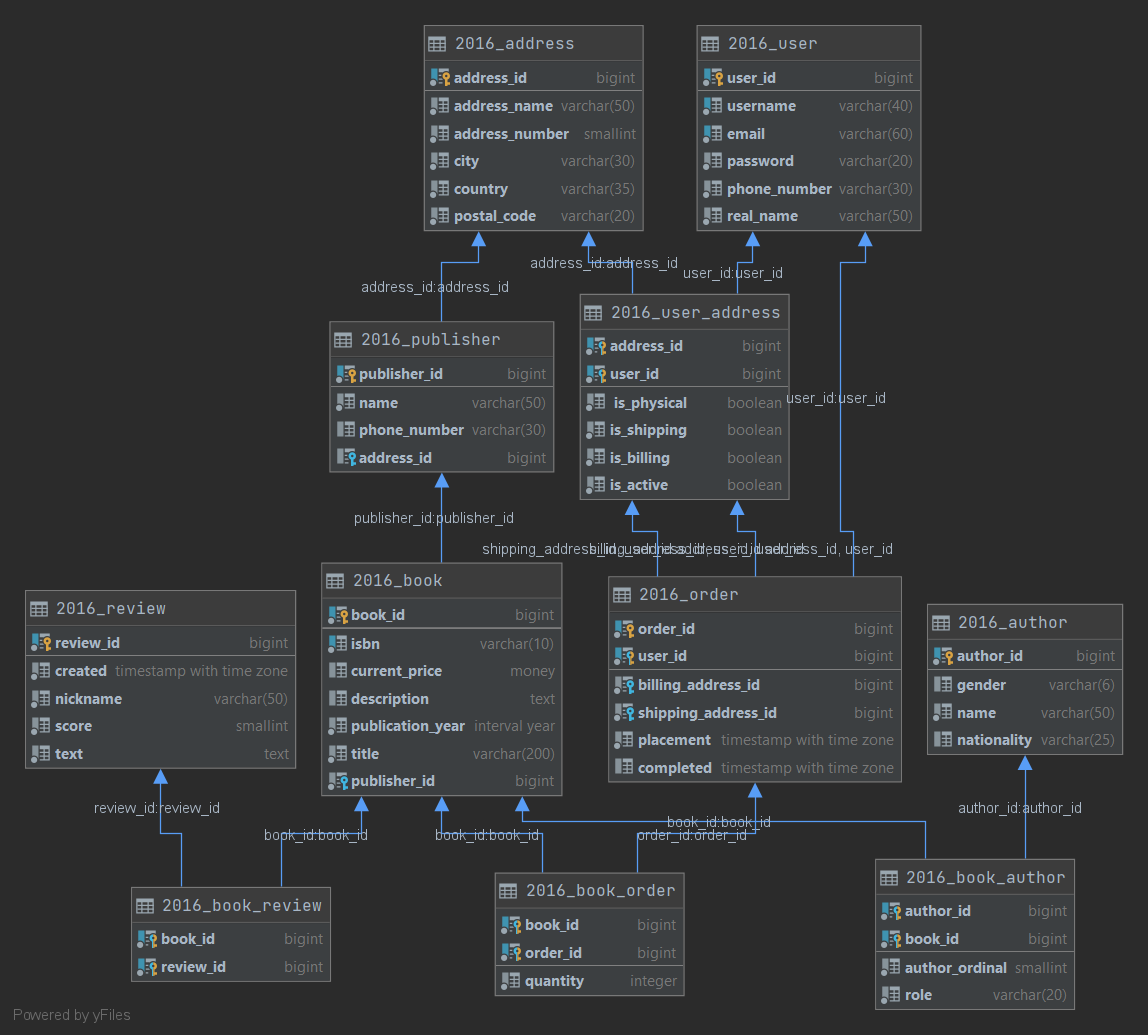
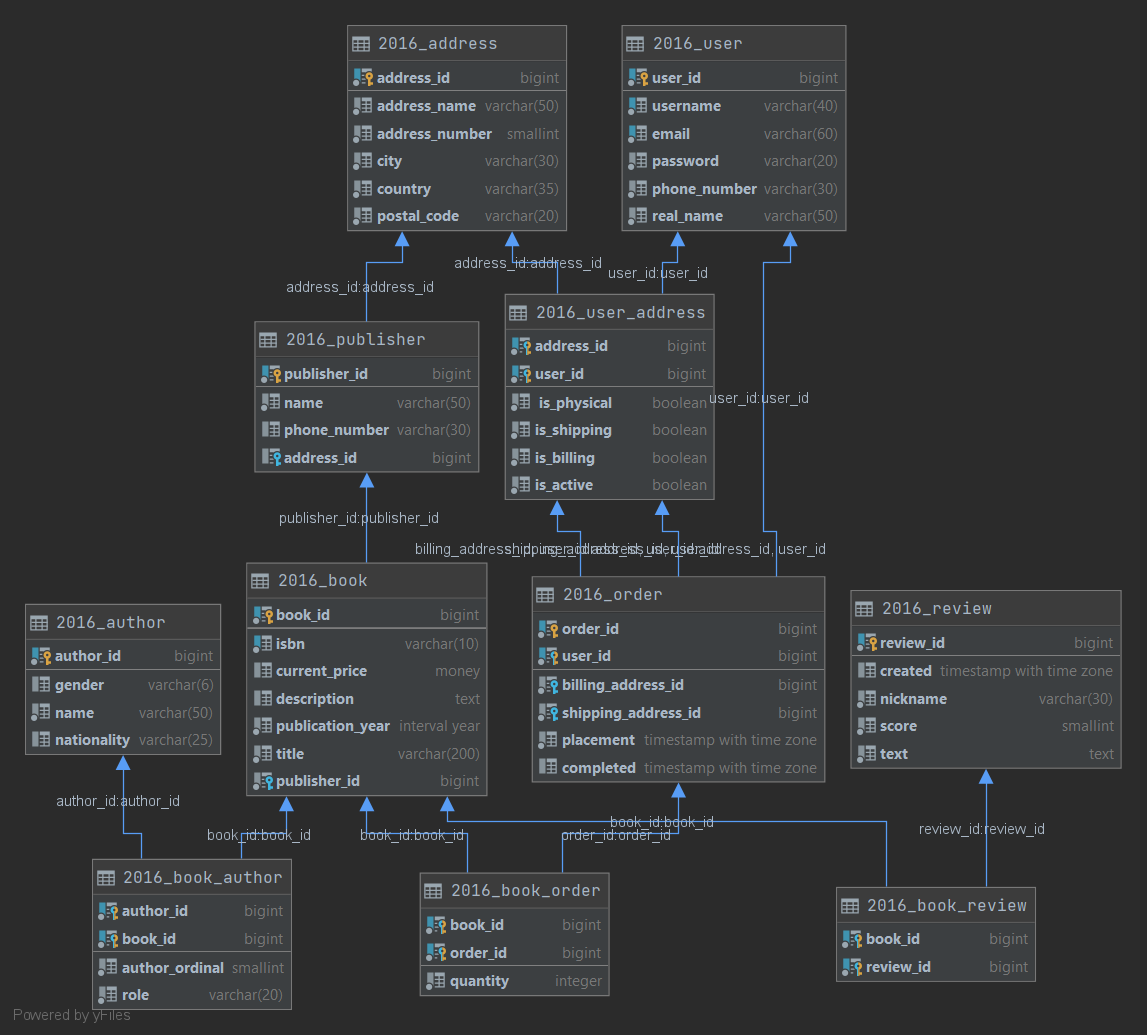
Changes v7

Changed region(s): [[0.0, 0.0309, 0.9765, 0.9894]]

diff --git a/project_1/factories.py b/project_1/factories.py
@@ -1,10 +1,12 @@
+import decimal
+import random
 from faker import Faker
-from faker.providers import person, phone_number, internet, isbn, address
-from project_1.database.entities import Address, Author, Book, Publisher, Order, User, Review
+from faker.providers import person, phone_number, internet, isbn, address, date_time, lorem, misc
+from project_1.database.entities import Address, Author, Book, Publisher, User, Review
 
 
 class BaseMixin(object):
-    """Base Mixin"""
+    """BaseMixin"""
 
     def __init__(self, fake: Faker):
         self._fake = fake
@@ -39,10 +41,11 @@ class AddressMixin(BaseMixin):
 
 
 class PersonMixin(BaseMixin):
-    """Book Mixin"""
+    """BookMixin"""
     def __init__(self, fake: Faker):
         super(PersonMixin, self).__init__(fake)
         self._fake.add_provider(person)
+        self._fake.add_provider(phone_number)
 
     def name_and_gender(self):
         gender = 'Male' if self._fake.random.randint(0, 1) == 0 else 'Female'
@@ -60,12 +63,15 @@ class PersonMixin(BaseMixin):
         # Nationality is not included in Faker, so return language instead
         return self._fake.language_name()
 
+    def phone_number(self):
+        return self._fake.phone_number()
+
     def __str__(self):
         return "PersonMixin"
 
 
 class ISBNMixin(BaseMixin):
-    """ISBN Mixin"""
+    """ISBNMixin"""
     def __init__(self, fake: Faker):
         super(ISBNMixin, self).__init__(fake)
         self._fake.add_provider(isbn)
@@ -80,7 +86,82 @@ class ISBNMixin(BaseMixin):
         return "ISBNMixin"
 
 
-class FakeGenerator(AddressMixin, PersonMixin, ISBNMixin):
+class DateTimeMixin(BaseMixin):
+    """DateTimeMixin"""
+    def __init__(self, fake: Faker):
+        super(DateTimeMixin, self).__init__(fake)
+        self._fake.add_provider(date_time)
+
+    def year(self):
+        return self._fake.year()
+
+    def timestamp(self):
+        return self._fake.date_time()
+
+    def __str__(self):
+        return "DateTimeMixin"
+
+
+class LoremMixin(BaseMixin):
+    """LoremMixin"""
+    def __init__(self, fake: Faker):
+        super(LoremMixin, self).__init__(fake)
+        self._fake.add_provider(lorem)
+
+    def sentence(self, nb_words=10):
+        """
+        :param nb_words: Number of words to be included
+        """
+        return self._fake.sentence(nb_words=nb_words)
+
+    def text(self):
+        return self._fake.text()
+
+    def __str__(self):
+        return "LoremMixin"
+
+
+class MiscMixin(BaseMixin):
+    """MiscMixin"""
+    def __init__(self, fake: Faker):
+        super(MiscMixin, self).__init__(fake)
+        self._fake.add_provider(misc)
+        self._fake.add_provider(internet)
+
+    def emails(self, n=1):
+        """
+        :param n: Number of unique emails to be generated
+        """
+        return (self._fake.unique.email() for _ in range(n))
+
+    def usernames(self, n=1):
+        """
+        :param n: Number of unique usernames to be generated
+        """
+        return (self._fake.unique.user_name() for _ in range(n))
+
+    def password(self, length=10):
+        """
+        :param length: password length
+        """
+        return self._fake.password(length=length)
+
+    def nickname(self):
+        return self._fake.user_name()
+
+    @staticmethod
+    def score():
+        return random.randint(1, 5)
+
+    @staticmethod
+    def money():
+        return decimal.Decimal(random.randrange(10000))/100
+
+    def __str__(self):
+        return "MiscMixin"
+
+
+class FakeGenerator(AddressMixin, PersonMixin, ISBNMixin, DateTimeMixin, LoremMixin, MiscMixin):
     """Class used for generating fake data"""
 
     def __init__(self):
@@ -122,7 +203,7 @@ class AuthorFactory(object):
     @staticmethod
     def generate_authors(n=1):
         """
-         Generator of Author objects
+        Generator of Author objects
         :param n: number of objects to be generated
         """
         for i in range(n):
@@ -132,46 +213,93 @@ class AuthorFactory(object):
 
     def __str__(self):
         return "AuthorFactory"
-#
-#
-# class InternetFactory(BaseFactory):
-#     """Class used for generating fake Internet data"""
-#
-#     def __init__(self, fake):
-#         """
-#         :type fake: Faker
-#         """
-#         super(InternetFactory, self).__init__(fake, internet)
-#
-#     def generate_email(self):
-#         return self.fake.unique.ascii_free_email()
-#
-#     def __str__(self):
-#         return f"InternetFactory(fake_id={id(self.fake)})"
-#
-#
-# class PhoneNumberFactory(BaseFactory):
-#     """Class used for generating fake PhoneNumber data"""
-#
-#     def __init__(self, fake):
-#         """
-#         :type fake: Faker
-#         """
-#         super(PhoneNumberFactory, self).__init__(fake, phone_number)
-#
-#     def __str__(self):
-#         return f"PhoneNumberFactory(fake_id={id(self.fake)})"
-#
-#
-# class ISBNFactory(BaseFactory):
-#     """Class used for generating fake ISBN data"""
-#
-#     def __init__(self, fake):
-#         """
-#         :type fake: Faker
-#         """
-#         super(ISBNFactory, self).__init__(fake, isbn)
-#
-#
-#     def __str__(self):
-#         return f"ISBNrFactory(fake_id={id(self.fake)})"
+
+
+class PublisherFactory(object):
+    """Class used for generating fake Publisher data"""
+
+    @staticmethod
+    def generate_publishers(n=1):
+        """
+        Generator of Publisher objects
+        :param n: number of objects to be generated
+        """
+        for i in range(n):
+            data = {"name": _fg.name(), "phone_number": _fg.phone_number()}
+            yield Publisher.build_from_data(data)
+
+    @staticmethod
+    def add_address(publisher: Publisher, publisher_address=None):
+        if not publisher_address:
+            publisher.address = AddressFactory.generate_addresses()
+        else:
+            publisher.address = publisher_address
+
+    def __str__(self):
+        return "PublisherFactory"
+
+
+class BookFactory(object):
+    """Class used for generating fake Book data"""
+
+    @staticmethod
+    def generate_books(n=1):
+        """
+        Generator of Book objects
+        :param n: number of objects to be generated
+        """
+        isbns = list(_fg.isbns(n=n))
+        for i in range(n):
+            data = {"isbn": isbns[i], "publication_year": _fg.year(), "title": _fg.sentence(),
+                    "description": _fg.text(), "current_price": _fg.money()}
+            yield Book.build_from_data(data)
+        _fg.clear_unique()
+
+    @staticmethod
+    def add_publisher(book: Book, publisher=None):
+        if not publisher:
+            book.publisher = PublisherFactory.generate_publishers()
+        else:
+            book.publisher = publisher
+
+    def __str__(self):
+        return "BookFactory"
+
+
+class UserFactory(object):
+    """Class used for generating fake User data"""
+
+    @staticmethod
+    def generate_users(n=1):
+        """
+        Generator of User objects
+        :param n: number of objects to be generated
+        """
+        emails = list(_fg.emails(n=n))
+        usernames = list(_fg.usernames(n=n))
+        for i in range(n):
+            data = {"username": usernames[i], "email": emails[i], "password": _fg.password(),
+                    "real_name": _fg.name(), "phone_number": _fg.phone_number()}
+            yield User.build_from_data(data)
+        _fg.clear_unique()
+
+    def __str__(self):
+        return "UserFactory"
+
+
+class ReviewFactory(object):
+    """Class used for generating fake Review data"""
+
+    @staticmethod
+    def generate_reviews(n=1):
+        """
+        Generator of Review objects
+        :param n: number of objects to be generated
+        """
+        for i in range(n):
+            data = {"nickname": _fg.nickname(), "text": _fg.text(), "score": _fg.score(),
+                    "created": _fg.timestamp()}
+            yield Review.build_from_data(data)
+
+    def __str__(self):
+        return "ReviewFactory"

diff --git a/project_1/database/entities.py b/project_1/database/entities.py
@@ -8,7 +8,7 @@ class BaseEntity(object):
         """Builds the object from the given data"""
         obj = cls()
         for key, value in data.items():
-            if hasattr(object, key):
+            if hasattr(obj, key):
                 setattr(obj, key, value)
         return obj
 
@@ -45,14 +45,11 @@ class Book(BaseEntity):
 
     def __init__(self):
         self.isbn = None
-        self.isbn13 = None
         self.title = None
         self.publication_year = None
         self.current_price = None
         self.description = None
         self.publisher = None
-        self.authors = None
-        self.reviews = None
 
     def __str__(self):
         return f"Book(book_id={self.isbn})"
@@ -74,14 +71,14 @@ class Order(BaseEntity):
     """Represents a Order entity"""
 
     def __init__(self):
-        self.address = None
-        self.book = None
         self.user = None
+        self.billing_address = None
+        self.shipping_address = None
         self.placement = None
         self.completed = None
 
     def __str__(self):
-        return f"Order(address={self.address}, book= {self.book}, user={self.user})"
+        return f"Order(user={self.user})"
 
 
 class User(BaseEntity):
@@ -93,7 +90,6 @@ class User(BaseEntity):
         self.phone_number = None
         self.email = None
         self.real_name = None
-        self.addresses = None
 
     def __str__(self):
         return f"User(username={self.username})"
@@ -110,3 +106,54 @@ class Review(BaseEntity):
 
     def __str__(self):
         return f"Review(nickname={self.nickname})"
+
+
+class BookReview(BaseEntity):
+    """Represents a BookReview entity"""
+
+    def __init__(self):
+        self.book = None
+        self.review = None
+
+    def __str__(self):
+        return f"BookReview(book={self.book}, review=({self.review})"
+
+
+class BookAuthor(BaseEntity):
+    """Represents a BookAuthor entity"""
+
+    def __init__(self):
+        self.author = None
+        self.book = None
+        self.ordinal = None
+        self.role = None
+
+    def __str__(self):
+        return f"BookAuthor(book={self.book}, author=({self.author})"
+
+
+class BookOrder(BaseEntity):
+    """Represents a BookOrder entity"""
+
+    def __init__(self):
+        self.book = None
+        self.order = None
+        self.quantity = None
+
+    def __str__(self):
+        return f"BookOrder(book={self.book}, order=({self.order})"
+
+
+class UserAddress(BaseEntity):
+    """Represents a UserAddress entity"""
+
+    def __init__(self):
+        self.address = None
+        self.user = None
+        self.is_physical = None
+        self.is_shipping = None
+        self.is_billing = None
+        self.is_active = None
+
+    def __str__(self):
+        return f"UserAddress(address={self.address}, review=({self.user})"
